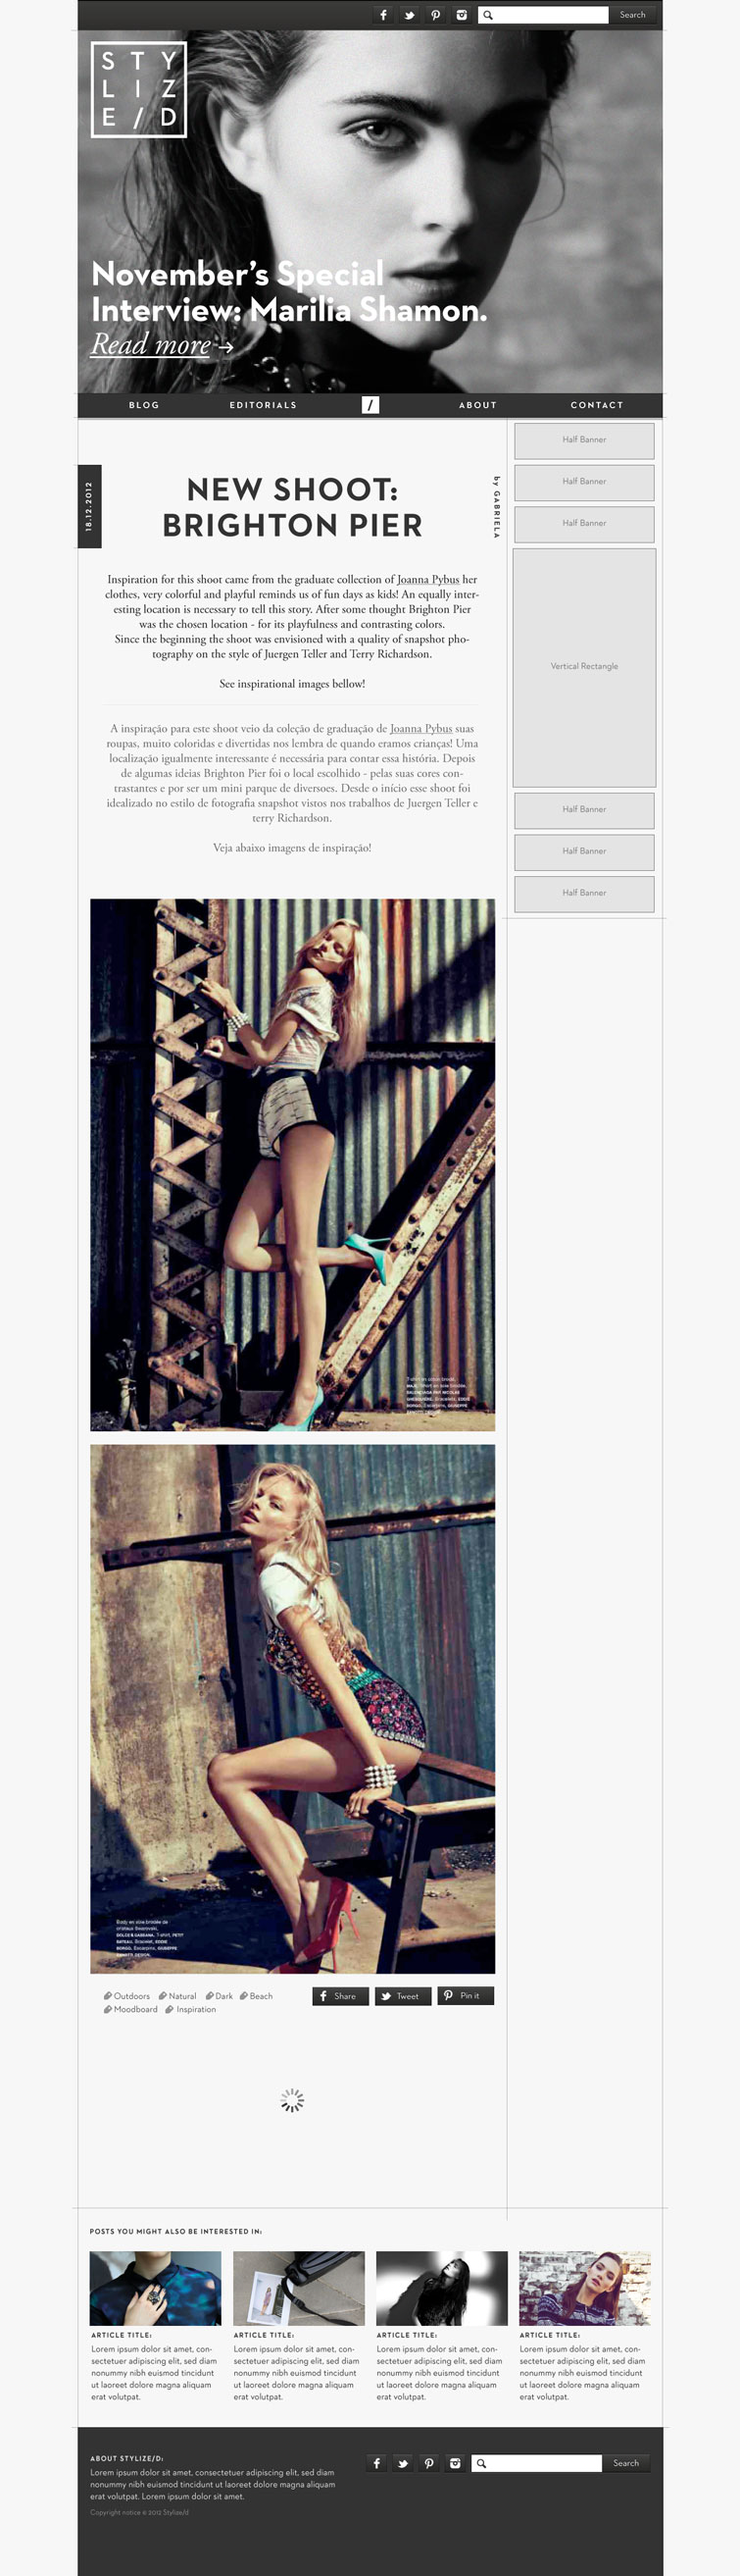
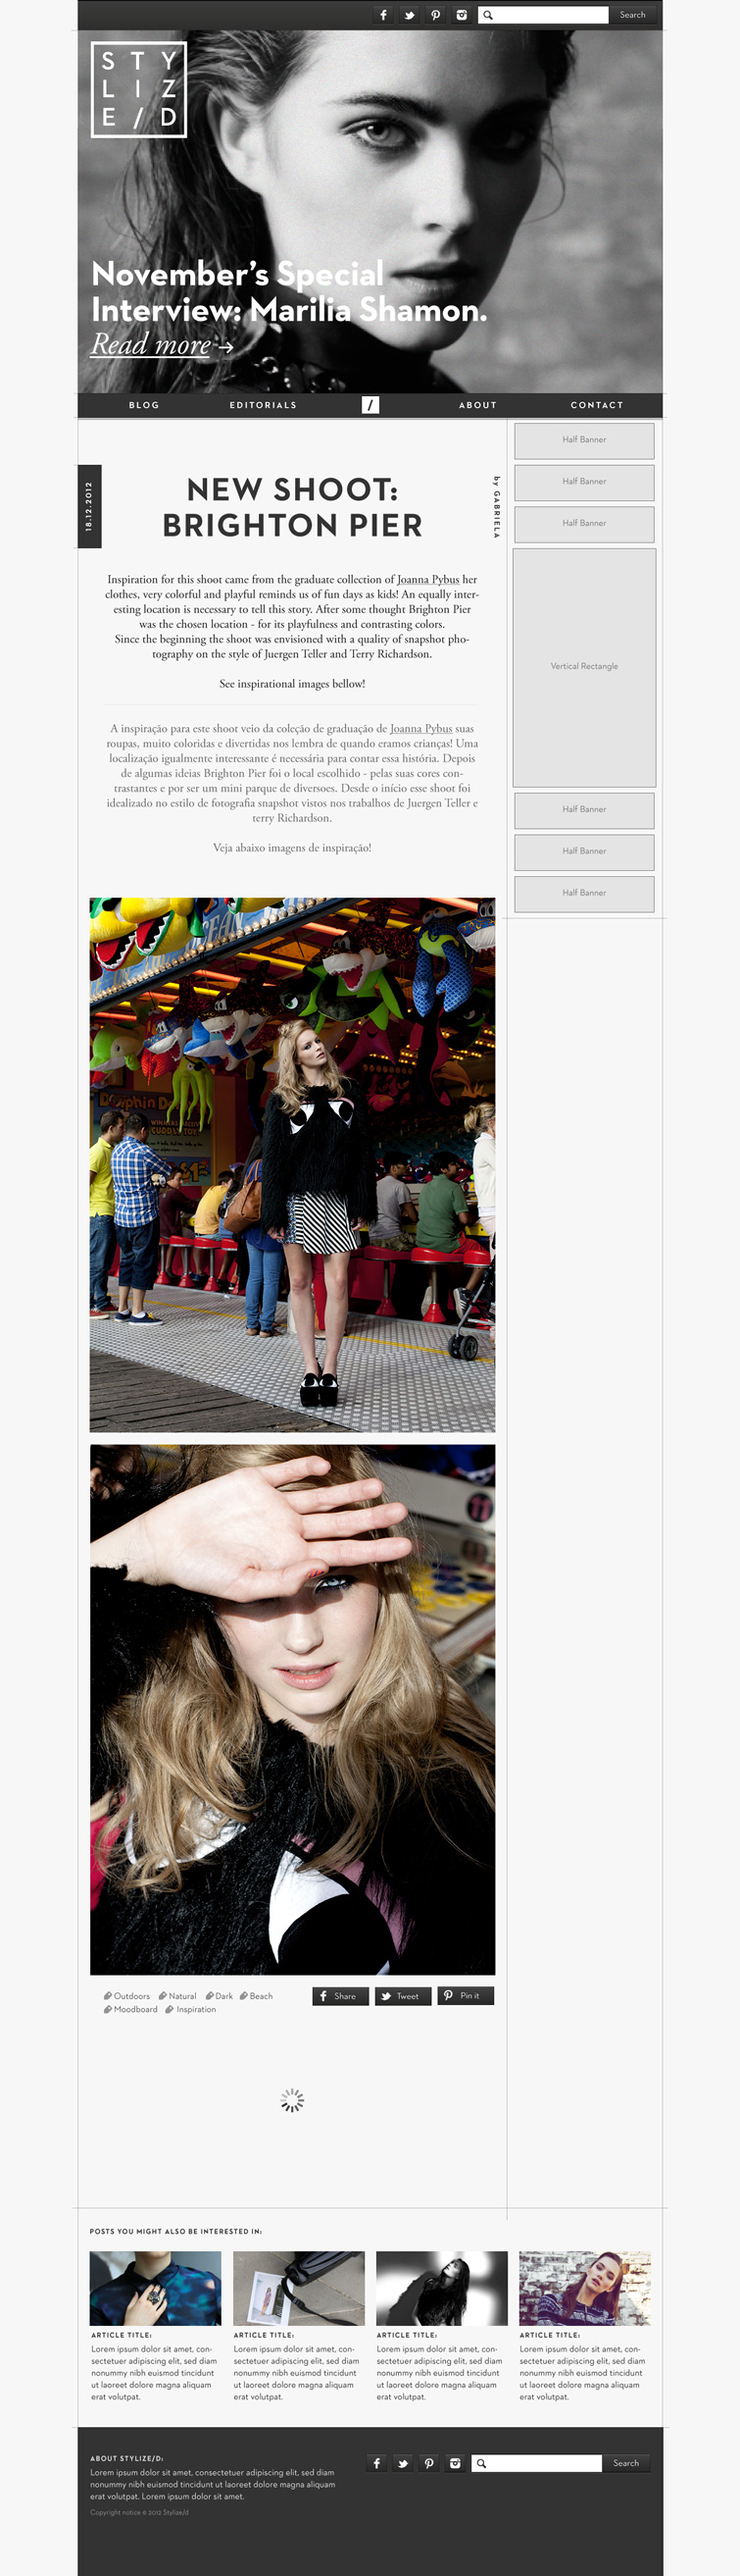
Removed VAIO Message Center and Google DoubleClick, Updated Stylize/d imagery

Changed region(s): [[0.1219, 0.3435, 0.6702, 0.7807]]

diff --git a/en/index.php b/en/index.php
@@ -37,17 +37,6 @@
 
   <div>
     <h4>
-      <a href="./work/sony-vaio-message-center/">Sony VAIO Message Center</a>
-    </h4>
-    <a href="./work/sony-vaio-message-center/">
-      <img width="240" height="140"
-       src="/media/images/sony-vaio-message-center-card.jpg"
-       alt="Photograph of the Sony VAIO’s CMS user interface">
-    </a>
-    <p>Front-end development of Sony VAIO’s news management system</p>
-  </div>
-  <div>
-    <h4>
       <a href="./work/stylize-d/">Stylize/d</a>
     </h4>
     <a href="./work/stylize-d/">
@@ -77,16 +66,6 @@
        alt="" width="240" height="140">
     </a>
     <p>Coming soon page for the swimswear designer’s website</p>
-  </div>
-  <div>
-    <h4>
-      <a href="./work/google-doubleclick-rich-media-gallery/">Google DoubleClick</a>
-    </h4>
-    <a href="./work/google-doubleclick-rich-media-gallery/">
-      <img src="/media/images/google-doubleclick-rich-media-gallery-card.jpg"
-       alt="" width="240" height="140">
-    </a>
-    <p>Front-end development for the Rich Media Gallery mobile site</p>
   </div>
   <div>
     <h4>

diff --git a/en/header.inc.php b/en/header.inc.php
@@ -17,7 +17,7 @@
     <script src="/javascript/scripts.js"></script>
     <?
     $project_number = 0; // Initial value to iterate
-    $projects_total = 17; // Total number of projects
+    $projects_total = 15; // Total number of projects
     switch ($title) {
       case 'Fractures from Anxiety'   : $project_number++;
       // case 'Sophie Westerlind'        : $project_number++;
@@ -40,11 +40,10 @@
       case 'Norman Hartnell'          : $project_number++;
       case '#todo'                    : $project_number++;
       case 'Keepon'                   : $project_number++;
-      case 'Google DoubleClick'       : $project_number++;
+      // case 'Google DoubleClick'       : $project_number++;
       case 'Auria × Margot Bowman'    : $project_number++;
       case 'Kent & Curwen'            : $project_number++;
       case 'Stylize/d'                : $project_number++;
-      case 'Sony VAIO Message Center' : $project_number++;
       //Add new projects here using the same structure
     }
     ?>

diff --git a/en/work/stylize-d/index.php b/en/work/stylize-d/index.php
@@ -8,14 +8,14 @@
   <h2><? echo $title ?></h2>
   <span><? echo $project_number ?> of <? echo $projects_total ?></span>
   <span>
-    <a href="../sony-vaio-message-center/">Previous</a> &thinsp;/&thinsp;
+    Previous &thinsp;/&thinsp;
     <a href="../kent-and-curwen/">Next</a>
   </span>
 </div>
 
 <div class="project" id="stylize-d">
 
-  <img class="full" width="1264" height="902" src="/media/images/stylize-d-white-on-picture.jpg">
+  <img class="full" width="1264" height="902" src="/media/images/stylize-d-white-on-image.jpg">
 
   <img class="clear side" width="1264" height="481" src="/media/images/stylize-d-logo-as-masking-shape.jpg">
   <div class="txt">

diff --git a/en/work/google-doubleclick/index.php b/en/work/google-doubleclick/index.php
@@ -6,11 +6,6 @@
 
 <div class="project-nav">
   <h2><? echo $title ?></h2>
-  <span><? echo $project_number ?> of <? echo $projects_total ?></span>
-  <span>
-    <a href="../auria-x-margot-bowman/">Previous</a> &thinsp;/&thinsp;
-    <a href="../keepon/">Next</a>
-  </span>
 </div>
 
 <div class="project" id="google-doubleclick-rich-media-gallery">

diff --git a/en/work/keepon/index.php b/en/work/keepon/index.php
@@ -8,7 +8,7 @@
   <h2><? echo $title ?></h2>
   <span><? echo $project_number ?> of <? echo $projects_total ?></span>
   <span>
-    <a href="../google-doubleclick-rich-media-gallery/">Previous</a> &thinsp;/&thinsp;
+    <a href="../auria-x-margot-bowman/">Previous</a> &thinsp;/&thinsp;
     <a href="../hash-todo/">Next</a>
   </span>
 </div>

diff --git a/en/work/vaio-message-center/index.php b/en/work/vaio-message-center/index.php
@@ -6,11 +6,6 @@
 
 <div class="project-nav">
   <h2><? echo $title ?></h2>
-  <span><? echo $project_number ?> of <? echo $projects_total ?></span>
-  <span>
-    Previous &thinsp;/&thinsp;
-    <a href="../stylize-d/">Next</a>
-  </span>
 </div>
 
 <div class="project" id="sony-vaio-message-center">

diff --git a/en/work/auria-x-margot-bowman/index.php b/en/work/auria-x-margot-bowman/index.php
@@ -9,7 +9,7 @@
   <span><? echo $project_number ?> of <? echo $projects_total ?></span>
   <span>
     <a href="../kent-and-curwen/">Previous</a> &thinsp;/&thinsp;
-    <a href="../google-doubleclick-rich-media-gallery/">Next</a>
+    <a href="../keepon/">Next</a>
   </span>
 </div>
 
